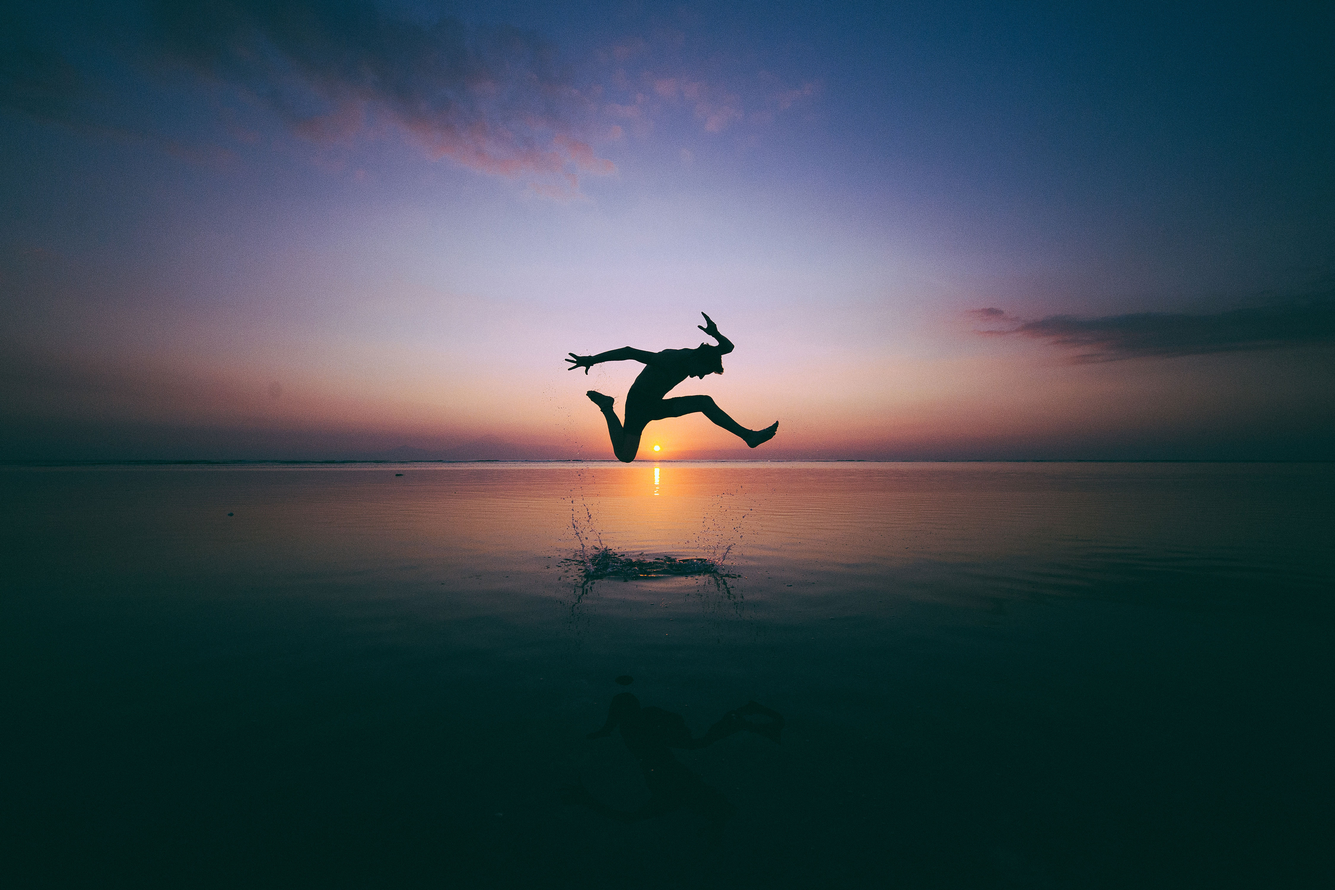
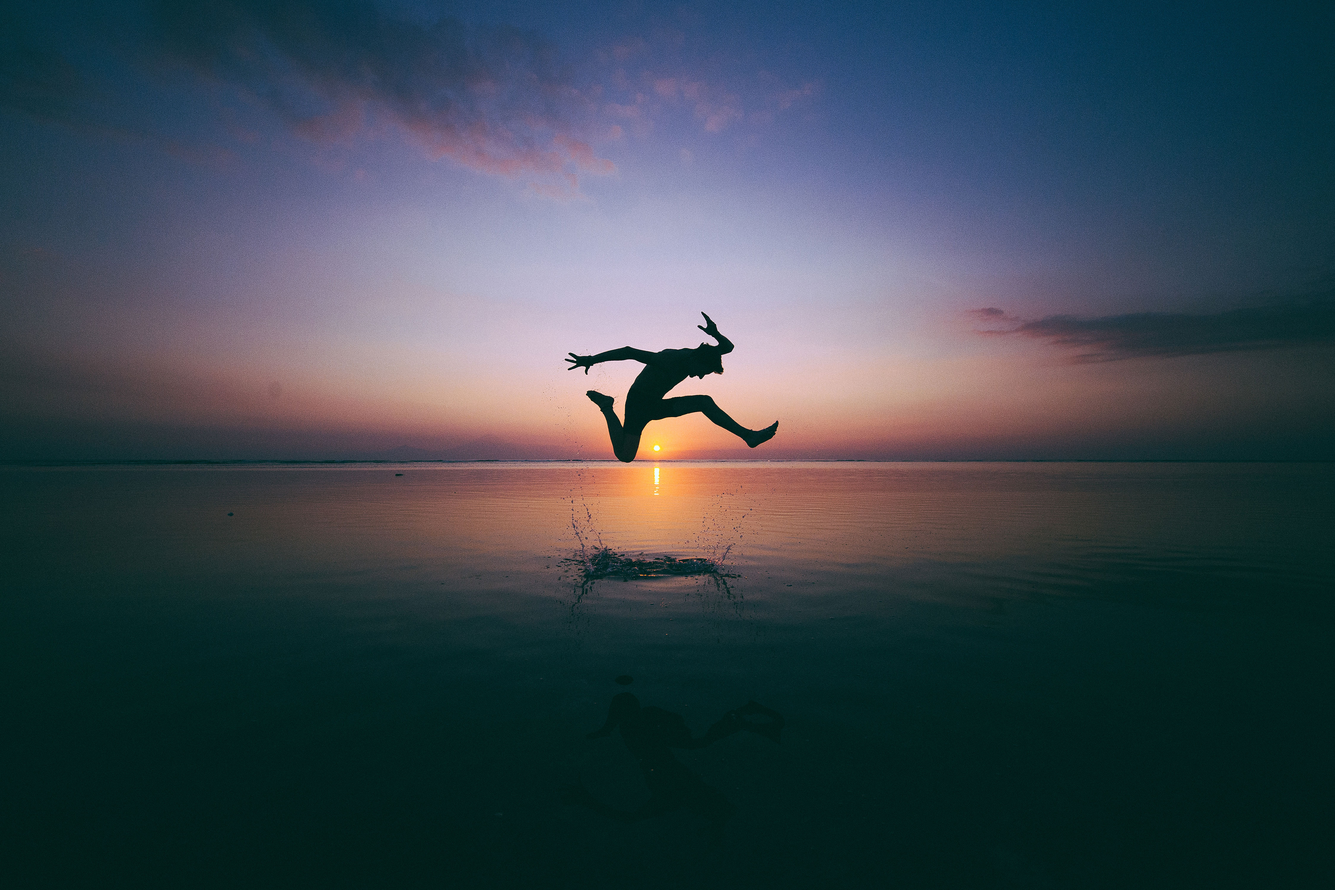
Changed bg image

Changed region(s): [[0.4667, 0.496, 0.6222, 0.651], [0.3422, 0.496, 0.4667, 0.651]]

diff --git a/index.html b/index.html
@@ -43,7 +43,7 @@
 <div id="content">
   <div class="copy"><i class="fa fa-chevron-down"></i></div>
   <article>
-    <div class="photo inner" style="height: 100%; background: url(img/landing/IMG_7485-VSCO-web-4500.jpg) 50% 50% / cover no-repeat; -webkit-background-size: cover; -moz-background-size: cover; -o-background-size: cover; background-size: cover;">
+    <div class="photo inner" style="height: 100%; background: url(img/landing/IMG_7485-VSCO-web-4500.jpg) no-repeat fixed center; background-size: 100% 115%;">
       <div class="noise"></div>
 		  <div class="pad">
         <footer class="metadata"></footer>
